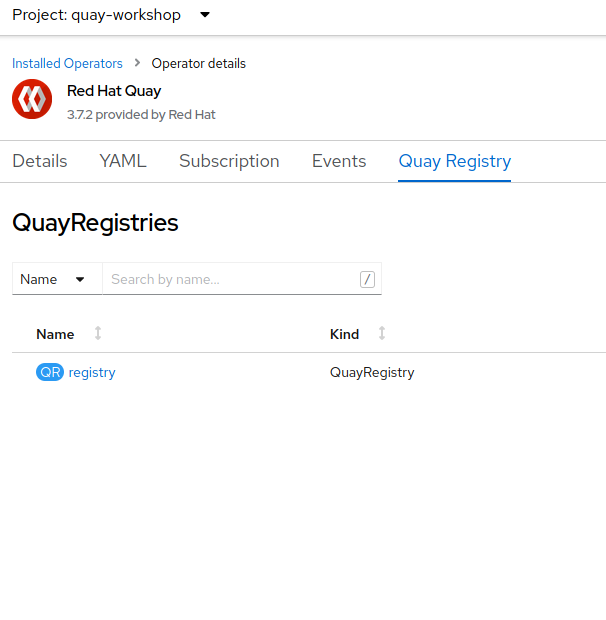
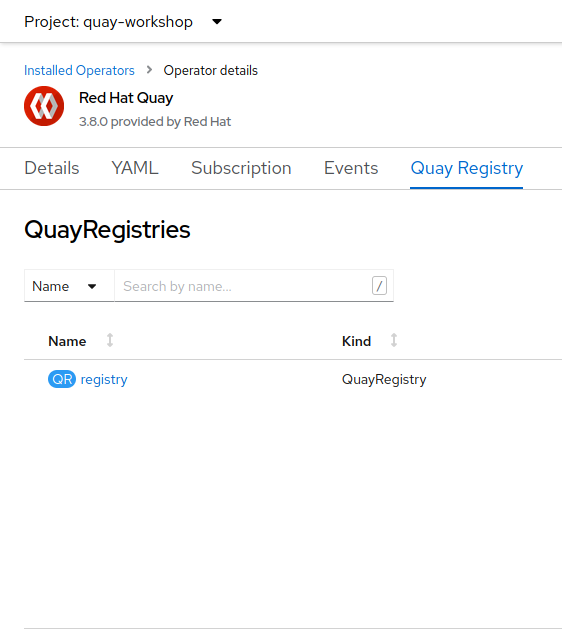
Upgrade to Quay v3.8

diff --git a/README.md b/README.md
@@ -1,4 +1,4 @@
-# Red Hat Quay Workshop
+# Red Hat Quay 3.8 Workshop
 
 Red Hat Quay is a distributed and highly available container image registry for your enterprise.
 
